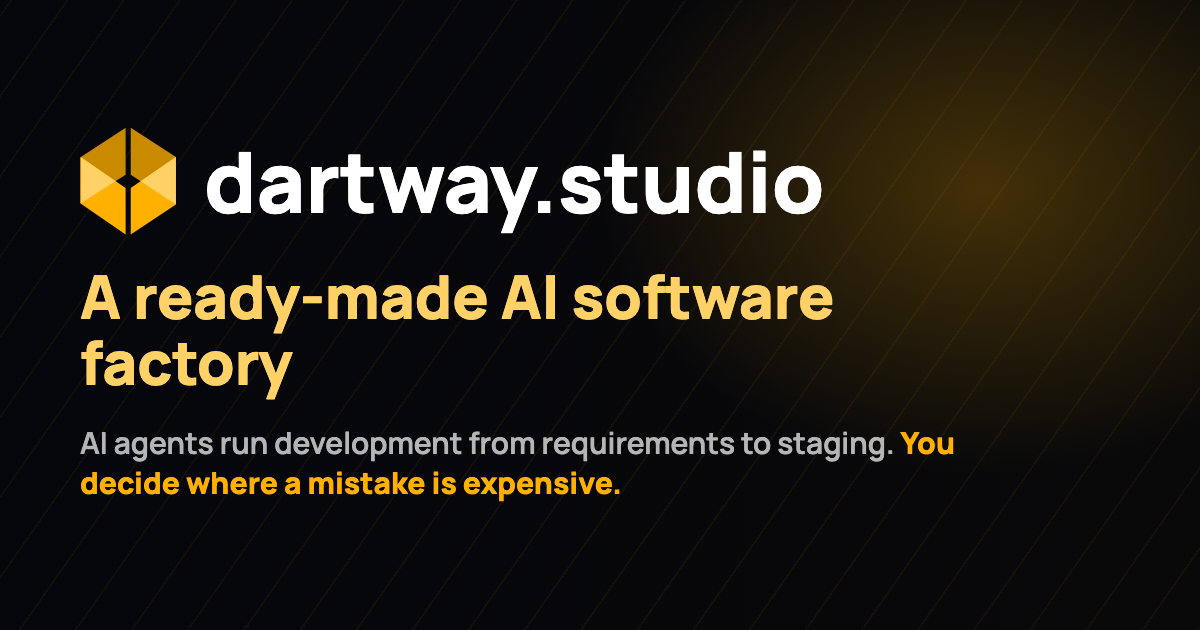
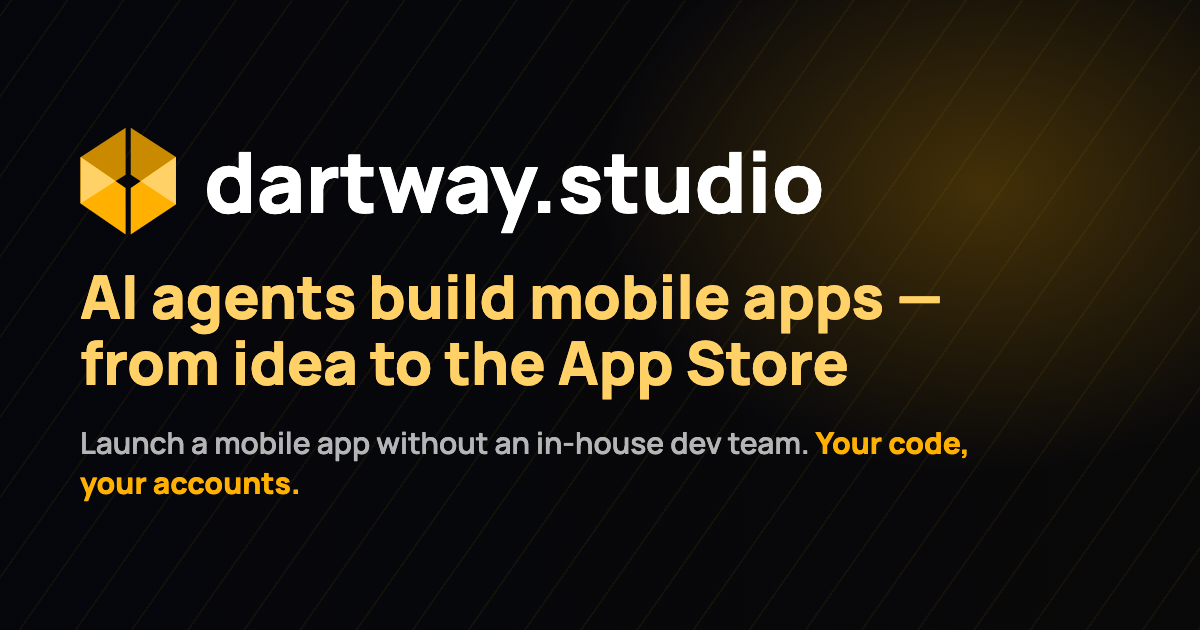
Landing for the founder: thesis hero, launch steps, ownership, honest status, launch-queue CTA; og image

Changed region(s): [[0.0925, 0.4222, 0.8017, 0.6333], [0.0617, 0.6635, 0.8017, 0.7841]]

diff --git a/src/i18n/ru.ts b/src/i18n/ru.ts
@@ -1,76 +1,77 @@
 export default {
   lang: 'ru',
-  title: 'DartWay Studio — готовая фабрика разработки на AI-агентах',
+  title: 'DartWay Studio — ИИ-агенты создают мобильные приложения от идеи до App Store',
   description:
-    'Платформа, на которой AI-агенты ведут разработку от требований до стенда. Вы решаете там, где ошибка дорогая. Закрытая бета.',
+    'Запуск мобильного приложения без своей ИТ-команды: код пишут ИИ-агенты, за результат отвечает человек. Код, данные и аккаунты — ваши.',
   switchLabel: 'EN',
   switchHref: '/',
-  nav: { how: 'Как работает', agents: 'Агенты', who: 'Для кого', beta: 'Бета', cta: 'Написать' },
+  nav: { how: 'Как идёт запуск', agents: 'Всё ваше', who: 'Для кого', beta: 'Сейчас', cta: 'Заявка' },
   hero: {
     eyebrow: 'DartWay Studio',
-    title: 'Готовая фабрика разработки на AI-агентах',
-    kicker: 'AI-агенты ведут разработку от требований до стенда.',
-    lead: 'Вы описываете, каким должен быть продукт, и решаете там, где ошибка дорогая. Остальное идёт по процессу.',
-    meta: ['Закрытая бета', 'Бесплатно', 'Ваши агенты — наш процесс'],
-    primary: 'Попасть в бету',
-    secondary: 'Демо за 3 минуты',
+    title: 'ИИ-агенты создают мобильные приложения от идеи до App Store',
+    kicker: 'Запуск мобильного приложения без своей ИТ-команды.',
+    lead: 'Код пишут ИИ-агенты, за результат отвечает человек. Вы держите идею и принимаете работу — приложение, код и аккаунты остаются вашими.',
+    meta: ['iOS и Android', 'Код и аккаунты — ваши', 'Очередь на запуск'],
+    primary: 'Оставить заявку на запуск',
+    secondary: 'Как это выглядит — 3 минуты',
   },
   stats: [
-    { value: '5', label: 'проектов на платформе' },
-    { value: '649', label: 'задач закрыто' },
-    { value: '6 ч', label: 'среднее время выполнения задачи' },
+    { value: '4', label: 'приложения сейчас в работе' },
+    { value: '649', label: 'задач закрыто на платформе' },
+    { value: '2', label: 'новых проекта одновременно — не больше' },
   ],
   problem: {
-    title: 'Собрать свою фабрику можно. Но это надо заморочиться.',
-    text: 'Связать трекер, CI, агентов, ревью и выкат в процесс, который не разваливается на третьей неделе, — отдельный проект. Обычно его не доделывают: процесс живёт в головах и чатах, а куда ушло время, не видит никто.',
+    title: 'Приложение нужно, а своей ИТ-команды нет',
+    text: 'Собрать команду — долго, держать её — дорого. Подрядчик пишет код, в котором потом не разобраться без него. Прототип, собранный в конструкторе или нейросетью за вечер, до стора обычно не доходит.',
   },
   how: {
-    title: 'Как это работает',
+    title: 'Как идёт запуск',
     steps: [
       {
-        name: 'Эпик',
-        text: 'Описание того, как должно быть. Агент разбирает его на задачи со спецификацией, вы отбираете нужные. Всё, что делается потом, ссылается сюда — требования не теряются в чатах.',
+        name: 'Идея → описание',
+        text: 'Вы рассказываете, что должно получиться. Вместе раскладываем это на части: вы отвечаете на вопросы и решаете, что важно.',
       },
       {
-        name: 'Карточка задачи',
-        text: 'Вся её жизнь: постановка, стадии, кто что сделал, вопросы и ответы. Агент, который возьмёт её завтра, знает всё, что обсудили сегодня.',
+        name: 'Код пишут ИИ-агенты',
+        text: 'Каждую часть делают агенты, другие агенты проверяют их работу. Всё записано: что решили, что сделано и почему.',
       },
       {
-        name: 'Пресет процесса',
-        text: 'Какой агент пишет код, какой проверяет, где нужен ваш апрув. Задача запускается по пресету и дальше идёт сама.',
+        name: 'Вы принимаете с телефона',
+        text: 'Готовое появляется в тестовой версии приложения. Открываете её с телефона и принимаете — или возвращаете с замечаниями.',
       },
       {
-        name: 'Доска до стенда',
-        text: 'Разработка, ревью, выкат на стенд. Вы смотрите целые блоки, а не дёргаете каждую задачу. В прод — по вашей команде.',
+        name: 'App Store и Google Play',
+        text: 'Приложение выходит в сторы под вашим аккаунтом разработчика. Дальше оно развивается тем же порядком: новые функции, мониторинг, исправления.',
       },
     ],
   },
   agents: {
-    title: 'Агенты — ваши. Процесс — наш.',
-    text: 'Исполнитель стадии — Claude Code, Codex или агент самой платформы. Свои токены или своя машина через MCP. Мы не заменяем эти инструменты: мы даём им процесс и память проекта.',
-    chips: ['Claude Code', 'Codex', 'MCP', 'GitHub', 'свои токены'],
-    humanTitle: 'Не полностью тёмная',
-    humanText: 'Люди решают там, где ошибка дорогая: что строим, что принимаем, что уходит в прод.',
+    title: 'Всё — ваше',
+    text: 'Код лежит в вашем репозитории, сервер и данные — ваши, приложение в сторах — под вашим аккаунтом. Захотите уйти — уйдёте без потерь.',
+    chips: ['ваш код', 'ваш сервер', 'ваши данные', 'ваш аккаунт в сторах'],
+    humanTitle: 'Отвечает человек',
+    humanText: 'Код пишут ИИ-агенты, за результат отвечаем мы — основатель DartWay и архитектор проекта. Вы — владелец продукта: отвечаете на вопросы и принимаете работу.',
   },
   who: {
     title: 'Для кого',
     items: [
-      { name: 'Продуктовая команда', text: 'Один-два человека ведут проект, агенты делают объём.' },
-      { name: 'Небольшая студия', text: 'Клиентские проекты на одном процессе — и видно, где время.' },
-      { name: 'Фрилансер', text: 'Работа команды без команды.' },
-      { name: 'Фаундер', text: 'Продукт без агентства: вы держите требования, платформа держит процесс.' },
+      { name: 'Предприниматель', text: 'Есть идея и деньги, нет своей ИТ-команды — и собирать её не хочется.' },
+      { name: 'Малый бизнес', text: 'Приложение для своих клиентов или сообщества без отдела разработки.' },
+      { name: 'Студия или агентство', text: 'Дизайн, маркетинг, продукт — а разработчиков в штате нет.' },
     ],
   },
   beta: {
     title: 'Что сейчас — честно',
     items: [
-      'Закрытая бета. Бесплатно, с поддержкой основателя.',
-      'Лучше всего — на Dart и Flutter: под них есть наш фреймворк DartWay. Другие стеки подключаем сейчас.',
+      'Четыре приложения в работе. Цель — все четыре в сторах до конца года.',
+      'Одновременно берём не больше двух новых проектов — поэтому очередь.',
+      'Приложения делаем на Flutter: одно приложение сразу для iOS и Android.',
+      'Сроки и стоимость обсуждаем по вашему приложению, а не обещаем на сайте.',
     ],
   },
   final: {
-    title: 'Покажу на вашем проекте за 30 минут',
-    text: 'Напишите — посмотрим, как у вас устроен процесс, и решим, подходит ли Studio.',
+    title: 'Оставьте заявку на запуск',
+    text: 'Напишите в Telegram, что за приложение и на какой оно стадии. Обсудим, подходит ли, и поставим в очередь.',
     cta: 'Написать в Telegram',
   },
   footer: {

diff --git a/src/i18n/en.ts b/src/i18n/en.ts
@@ -1,76 +1,77 @@
 export default {
   lang: 'en',
-  title: 'DartWay Studio — a ready-made AI software factory',
+  title: 'DartWay Studio — AI agents build mobile apps, from idea to the App Store',
   description:
-    'A platform where AI agents run development from requirements to staging. You decide where a mistake is expensive. Closed beta.',
+    'Launch a mobile app without an in-house dev team: AI agents write the code, a person answers for the result. The code, data and accounts are yours.',
   switchLabel: 'RU',
   switchHref: '/ru/',
-  nav: { how: 'How it works', agents: 'Agents', who: 'Who it’s for', beta: 'Beta', cta: 'Get in touch' },
+  nav: { how: 'How a launch goes', agents: 'It’s all yours', who: 'Who it’s for', beta: 'Now', cta: 'Apply' },
   hero: {
     eyebrow: 'DartWay Studio',
-    title: 'A ready-made AI software factory',
-    kicker: 'AI agents run development from requirements to staging.',
-    lead: 'You describe what the product should be and decide where a mistake is expensive. The rest follows the process.',
-    meta: ['Closed beta', 'Free', 'Your agents, our process'],
-    primary: 'Join the beta',
-    secondary: '3-minute demo',
+    title: 'AI agents build mobile apps — from idea to the App Store',
+    kicker: 'Launch a mobile app without an in-house dev team.',
+    lead: 'AI agents write the code; a person answers for the result. You hold the idea and accept the work — the app, the code and the accounts stay yours.',
+    meta: ['iOS and Android', 'Your code, your accounts', 'Launch queue'],
+    primary: 'Apply for a launch',
+    secondary: 'See it in 3 minutes',
   },
   stats: [
-    { value: '5', label: 'projects on the platform' },
-    { value: '649', label: 'issues closed' },
-    { value: '6 h', label: 'average delivery time' },
+    { value: '4', label: 'apps in progress now' },
+    { value: '649', label: 'tasks closed on the platform' },
+    { value: '2', label: 'new projects at a time, no more' },
   ],
   problem: {
-    title: 'You can build your own factory. It just takes a lot of doing.',
-    text: 'Wiring a tracker, CI, agents, review and deploys into a process that doesn’t fall apart in week three is a project of its own. It rarely gets finished: the process lives in heads and chats, and nobody can see where the time went.',
+    title: 'You need an app, but you have no dev team',
+    text: 'Hiring a team takes long and keeping one costs a lot. A contractor writes code nobody else can make sense of. A prototype thrown together in a no-code builder or by an AI in one evening rarely makes it to the store.',
   },
   how: {
-    title: 'How it works',
+    title: 'How a launch goes',
     steps: [
       {
-        name: 'Epic',
-        text: 'A description of how things should be. An agent breaks it into issues with specs; you keep the ones you want. Everything done later links back here, so requirements don’t get lost in chats.',
+        name: 'Idea → description',
+        text: 'You tell us what the app should do. Together we break it into parts: you answer questions and decide what matters.',
       },
       {
-        name: 'Issue card',
-        text: 'Its whole life: the brief, stages, who did what, questions and answers. The agent that picks it up tomorrow knows everything discussed today.',
+        name: 'AI agents write the code',
+        text: 'Agents build each part, and other agents check their work. Everything is on record: what was decided, what was done and why.',
       },
       {
-        name: 'Process preset',
-        text: 'Which agent writes the code, which one reviews, where your approval is needed. An issue launches by preset and moves on its own.',
+        name: 'You accept from your phone',
+        text: 'Finished work shows up in a test version of the app. You open it on your phone and accept it — or send it back with notes.',
       },
       {
-        name: 'Board to staging',
-        text: 'Development, review, deploy to staging. You look at whole blocks instead of poking every issue. Production goes out on your word.',
+        name: 'App Store and Google Play',
+        text: 'The app goes to the stores under your own developer account. After that it keeps growing the same way: new features, monitoring, fixes.',
       },
     ],
   },
   agents: {
-    title: 'The agents are yours. The process is ours.',
-    text: 'A stage is run by Claude Code, Codex or the platform’s own agent — on your tokens or your own machine via MCP. We don’t replace these tools: we give them a process and the project’s memory.',
-    chips: ['Claude Code', 'Codex', 'MCP', 'GitHub', 'your tokens'],
-    humanTitle: 'Not fully dark',
-    humanText: 'People decide where a mistake is expensive: what gets built, what gets accepted, what ships.',
+    title: 'It’s all yours',
+    text: 'The code is in your repository, the server and the data are yours, the app is in the stores under your account. If you want to leave, you leave without losses.',
+    chips: ['your code', 'your server', 'your data', 'your store account'],
+    humanTitle: 'A person answers for it',
+    humanText: 'AI agents write the code; we answer for the result — the founder of DartWay and the project’s architect. You own the product: you answer questions and accept the work.',
   },
   who: {
     title: 'Who it’s for',
     items: [
-      { name: 'Product teams', text: 'One or two people run a project; agents do the volume.' },
-      { name: 'Small studios', text: 'Client projects on one process — and you can see where the time goes.' },
-      { name: 'Freelancers', text: 'A team’s output without a team.' },
-      { name: 'Founders', text: 'A product without an agency: you hold the requirements, the platform holds the process.' },
+      { name: 'Founders', text: 'You have the idea and the money, but no dev team — and no wish to build one.' },
+      { name: 'Small businesses', text: 'An app for your customers or community, without a development department.' },
+      { name: 'Studios and agencies', text: 'Design, marketing, product — but no developers on staff.' },
     ],
   },
   beta: {
     title: 'Where it stands — honestly',
     items: [
-      'Closed beta. Free, with support from the founder.',
-      'Best on Dart and Flutter, where our DartWay framework helps. Other stacks are being connected now.',
+      'Four apps in progress. The goal is all four in the stores by the end of the year.',
+      'We take no more than two new projects at a time — hence the queue.',
+      'We build with Flutter: one app for both iOS and Android.',
+      'Timelines and cost are discussed for your app, not promised on a website.',
     ],
   },
   final: {
-    title: 'I’ll show it on your project in 30 minutes',
-    text: 'Write to me — we’ll look at how your process works and see whether Studio fits.',
+    title: 'Apply for a launch',
+    text: 'Message me on Telegram: what the app is and what stage it’s at. We’ll see whether it fits and put it in the queue.',
     cta: 'Message on Telegram',
   },
   footer: {

diff --git a/src/styles/site.css b/src/styles/site.css
@@ -97,7 +97,7 @@ h3 { font-size: 1.2rem; line-height: 1.3; margin-bottom: 0.6rem; }
 .human { padding: 1.35rem; border-radius: 8px; border: 1px solid var(--accent); background: var(--surface); }
 .human p { margin: 0; color: var(--text); }
 
-.grid { display: grid; grid-template-columns: repeat(4, minmax(0, 1fr)); gap: 1rem; margin-top: 2rem; }
+.grid { display: grid; grid-template-columns: repeat(3, minmax(0, 1fr)); gap: 1rem; margin-top: 2rem; }
 
 .honest { list-style: none; padding: 0; margin: 1.5rem 0 0; display: grid; grid-template-columns: repeat(2, minmax(0, 1fr)); gap: 0.9rem 2rem; }
 .honest li { position: relative; padding-left: 1.6rem; color: var(--text); }
